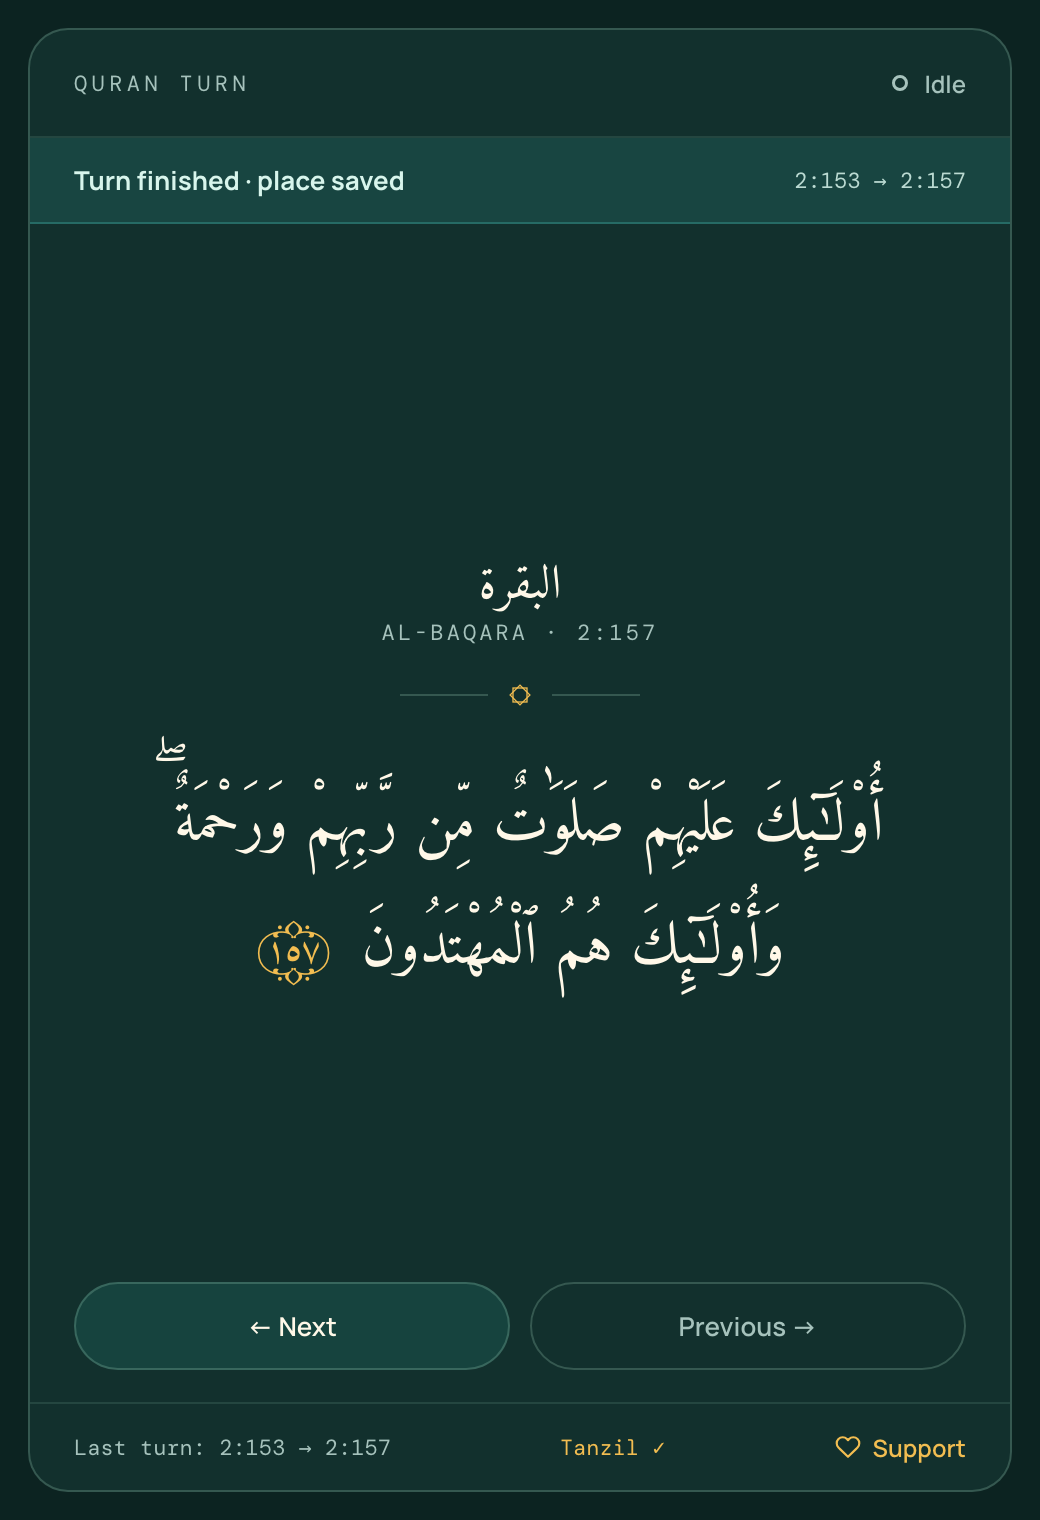
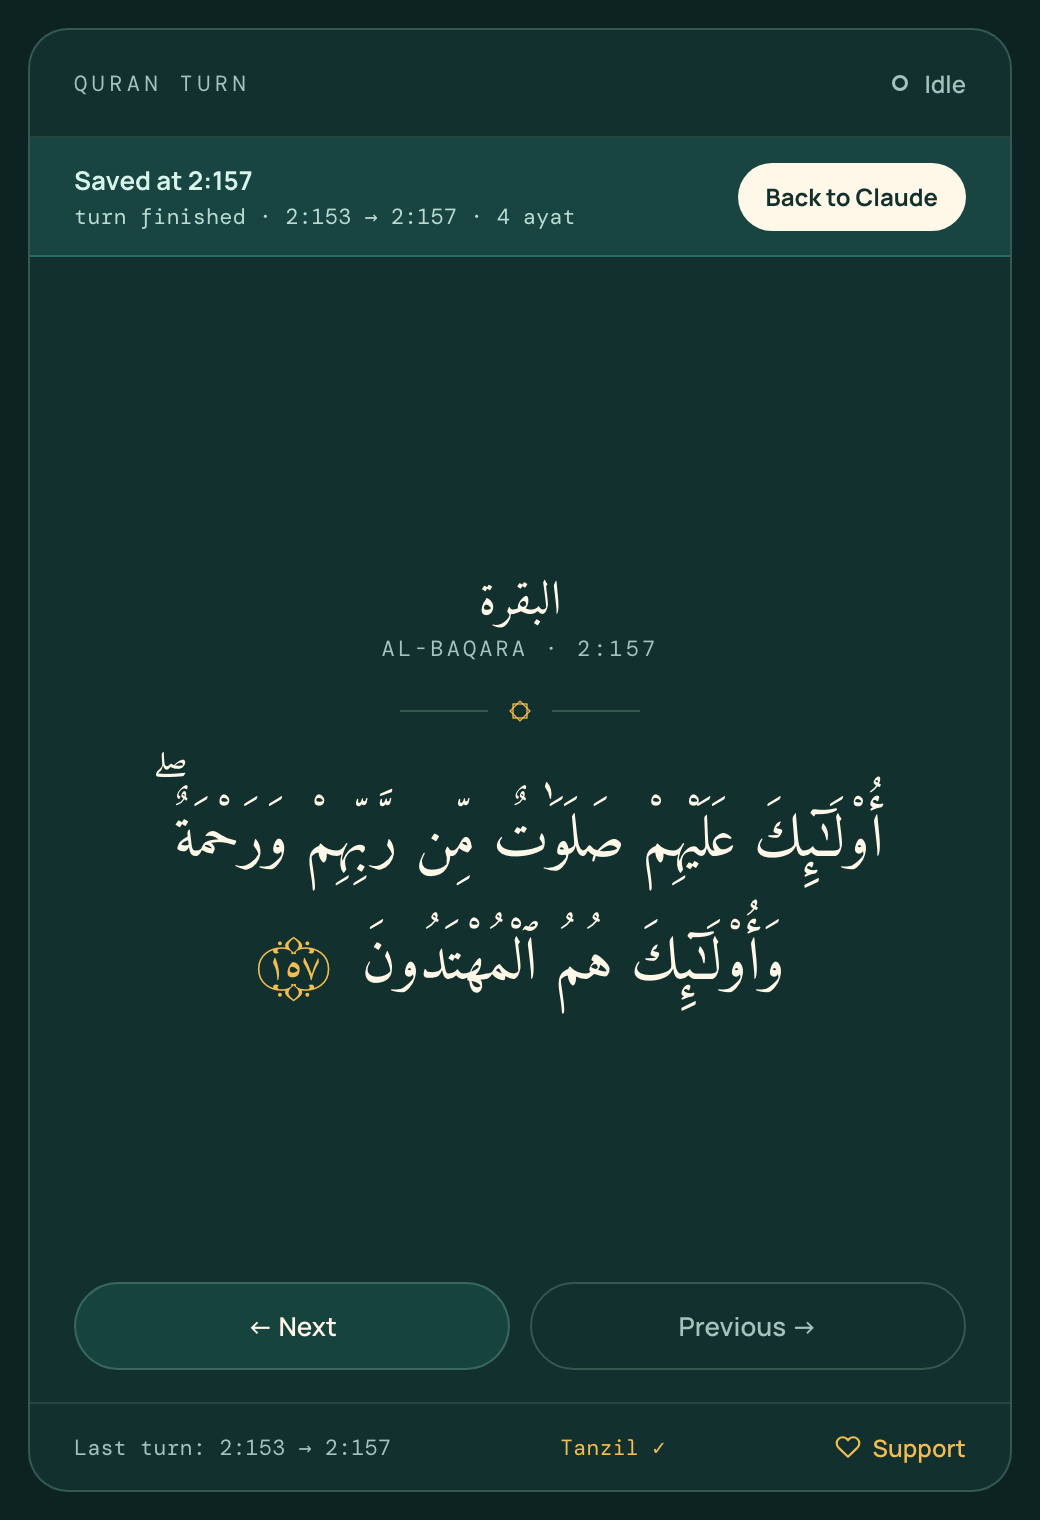
v0.2.1: Space reads on after "Open", strip ignores hidden navigation
- After a finished turn, if you press "Open" to keep reading, Space moves
  to the next ayah again; it only returns to the agent while it's waiting on
  your permission or from the collapsed strip. The "space" hint shows only
  when that's true, and updates on resize.
- In the collapsed strip the arrow keys no longer move the (invisible) ayah.
- README screenshots retaken with the v0.2 banners.

diff --git a/app/reader.js b/app/reader.js
@@ -80,7 +80,8 @@ function renderStatus() {
   back.title = 'Space';
   back.setAttribute('aria-keyshortcuts', 'Space');
   back.hidden = !canSwitch;
-  $('back-hint').hidden = !canSwitch;
+  // Only advertise Space when it really goes back (see agentWaiting).
+  $('back-hint').hidden = !(canSwitch && (status === 'needs_you' || (status === 'done' && isCompact())));
   clearTimeout(doneTimer);
   if (status === 'needs_you') {
     banner.dataset.kind = 'needs_you';
@@ -232,8 +233,11 @@ function backToAgent() {
   fetch('/api/back-to-agent', { method: 'POST', headers: { 'content-type': 'application/json' }, body: '{}' }).catch(() => {});
 }
 
-// When the agent is waiting on you (or done), Space/Enter jumps straight back to it.
-const agentWaiting = () => canSwitch && (agent.status === 'needs_you' || agent.status === 'done');
+// The window is collapsed to the small strip (see the compact media query).
+const isCompact = () => window.innerHeight < 180;
+// Space/Enter jumps back to the agent while it waits on you, or from the strip
+// after a turn. Once you "Open" the reader again after a turn, Space reads on.
+const agentWaiting = () => canSwitch && (agent.status === 'needs_you' || (agent.status === 'done' && isCompact()));
 
 function onKey(e) {
   if (e.metaKey || e.ctrlKey || e.altKey) return;
@@ -246,6 +250,8 @@ function onKey(e) {
     e.preventDefault();
     return backToAgent();
   }
+  // In the strip the ayah isn't visible, so don't move it.
+  if (isCompact()) return;
   // Arabic reads right-to-left, so ← moves forward.
   if (k === 'ArrowLeft' || k === 'j' || k === ' ') { e.preventDefault(); step(1); }
   else if (k === 'ArrowRight' || k === 'k') { e.preventDefault(); step(-1); }
@@ -291,6 +297,7 @@ async function init() {
     });
   }
   document.addEventListener('keydown', onKey);
+  window.addEventListener('resize', () => renderStatus());
   buildSurahList();
 
   try {

diff --git a/README.md b/README.md
@@ -6,8 +6,8 @@ Quran Turn is a plugin for **Claude Code** and **Codex**. When you send your age
 
 <p align="center">
   <img src="docs/reader-working.png" width="260" alt="Reader while Claude is working, showing Al-Baqara 2:155">
-  <img src="docs/reader-needs-you.png" width="260" alt="Reader paused because Claude needs permission">
-  <img src="docs/reader-done-dark.png" width="260" alt="Reader in dark mode after the turn finished, place saved at 2:157">
+  <img src="docs/reader-needs-you.png" width="260" alt="Claude needs you: a Back to Claude button, or press Space">
+  <img src="docs/reader-done-dark.png" width="260" alt="Dark mode after the turn finished: saved at 2:157 automatically">
 </p>
 
 - **Exact Qur'an text.** It ships Tanzil's verified Uthmani text byte-for-byte and checks it by SHA-256 before a single letter renders. No code path, and no LLM, ever edits it.
